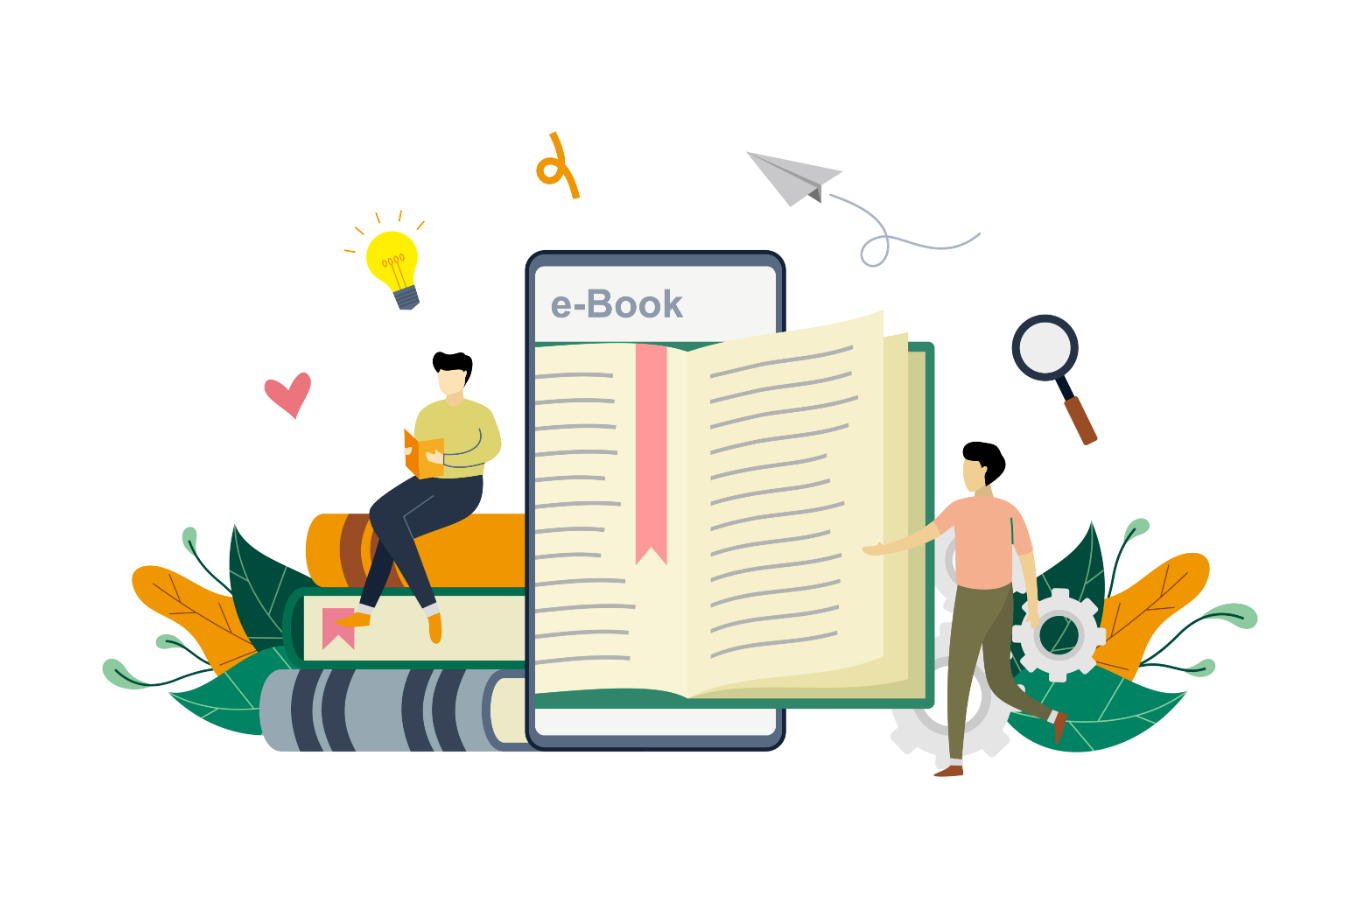
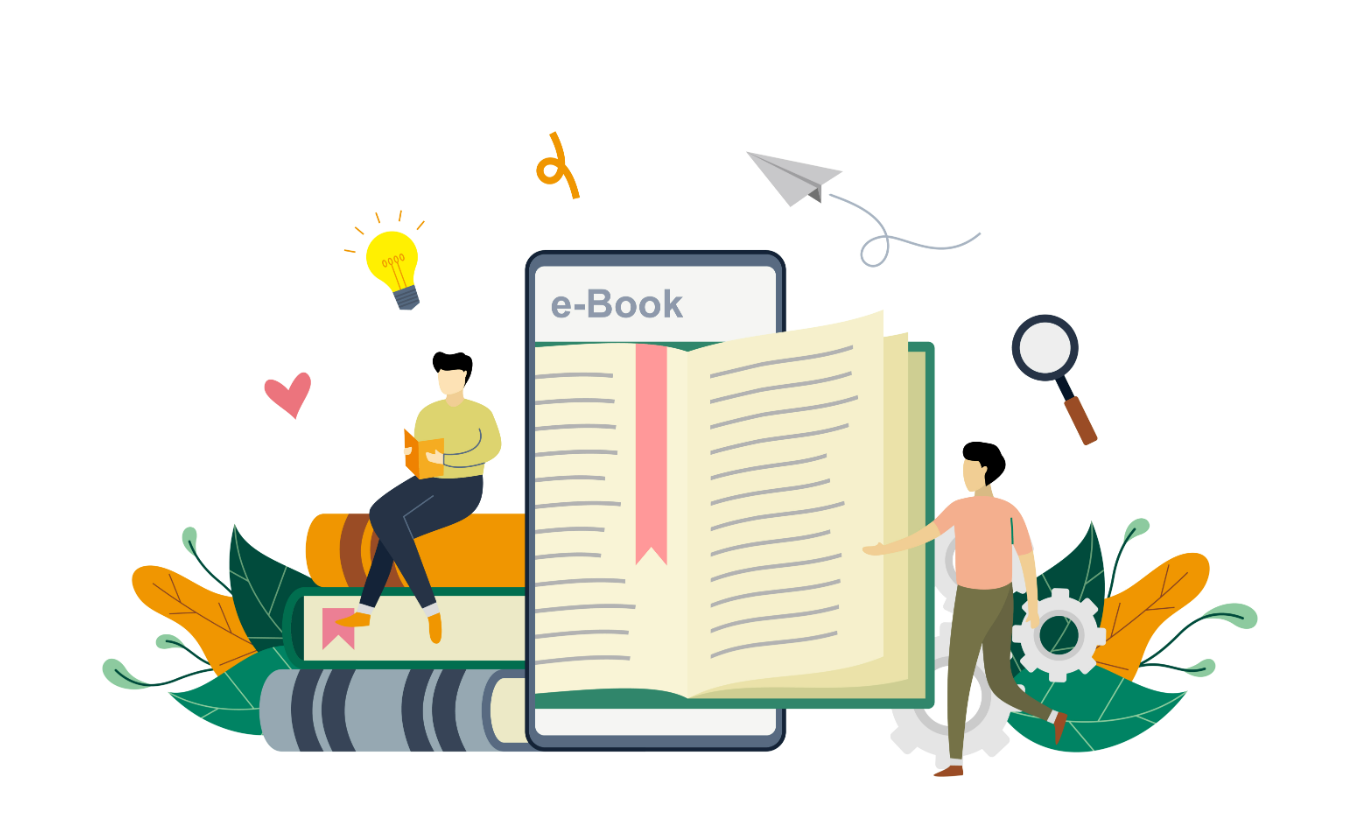
searchbar included

diff --git a/client/src/Components/Navbar.jsx b/client/src/Components/Navbar.jsx
@@ -6,8 +6,11 @@ import { Menu, X, ChevronDown } from "lucide-react";
 function Navbar()  {
   const [open, setOpen] = useState(false);
 
+  const [Search, seSearch] = useState()
+
+
   return (
-    <nav className="w-full bg-[#f5f5f5] border-b border-gray-200">
+    <nav className="w-full">
       {/* Desktop + Mobile Top */}
       <div className="flex items-center justify-between px-6 md:px-10 py-1">
         
@@ -25,22 +28,30 @@ function Navbar()  {
           {/* Logo */}
           <img className='h-15' src={logo} alt="" />
 
+          <div className='pt-4 text-sm w-96'> 
+            <input 
+          className='placeholder:pl-1 bg-gray-200 rounded-2xl p-1.5 outline-none w-80'
+          placeholder='Search books'
+          type="search" />
+          
+          </div>
+
           {/* Desktop Links */}
           <ul className="hidden md:flex items-center gap-10 ml-10 font-semibold text-[16px]">
             <li className="flex items-center gap-1 cursor-pointer hover:text-orange-800">
-              Explore <ChevronDown size={16} />
+              Home
             </li>
 
             <li className="flex items-center gap-1 cursor-pointer hover:text-orange-800">
-              Hire Talent <ChevronDown size={18} />
+              About <ChevronDown size={16} />
             </li>
 
             <li className="flex items-center gap-1 cursor-pointer hover:text-orange-800">
-              Get Hired <ChevronDown size={18} />
+              Contact <ChevronDown size={18} />
             </li>
 
             <li className="flex items-center gap-1 cursor-pointer hover:text-orange-800">
-              Community <ChevronDown size={18} />
+              Shop <ChevronDown size={18} />
             </li>
           </ul>
         </div>
@@ -81,24 +92,21 @@ function Navbar()  {
         {/* Mobile Links */}
         <div className="flex flex-col gap-10 px-7 py-10 text-md font-semibold">
           <div className="flex items-center gap-2">
-            Explore <ChevronDown size={22} />
+            Home
           </div>
 
           <div className="flex items-center gap-2">
-            Hire Talent <ChevronDown size={22} />
+            About <ChevronDown size={18} />
           </div>
 
           <div className="flex items-center gap-2">
-            Get Hired <ChevronDown size={22} />
+            Contact <ChevronDown size={18} />
           </div>
 
           <div className="flex items-center gap-2">
-            Community <ChevronDown size={22} />
+            Shop <ChevronDown size={18} />
           </div>
 
-          <button className="text-pink-500 text-left font-bold">
-            Start Project Brief
-          </button>
         </div>
       </div>
     </nav>

diff --git a/client/src/Pages/Welcome/Welcome.jsx b/client/src/Pages/Welcome/Welcome.jsx
@@ -9,12 +9,15 @@ function Welcome() {
       <div className='grid grid-cols-1 md:grid-cols-2 items-center min-h-screen'>
 
         <div className='flex items-center justify-center '>
-          <img className='ease-in-out duration-1000 hover:scale-110' src={bgimg} alt="" />
+          <img className='ease-in-out duration-1000 hover:scale-105' src={bgimg} alt="" />
         </div>
 
         <div className='flex flex-col items-center p-4 px-17 gap-7'>
-
-          <h1 className='text-4xl font-bold'>CloudStory</h1>
+          <img 
+          src={logo}
+           alt="logo"
+           className=' h-25 overflow-hidden pt-2.5' />
+          {/* <h1 className='text-4xl font-bold'>CloudStory</h1> */}
 
           <p>Escape into a world of imagination, knowledge, and inspiration with <span className='text-orange-500 font-bold'>CloudStory</span> - your personal digital library crafted for readers who love discovering stories anytime, anywhere, From timeless classics to modern favourites, <span className='text-orange-500 font-bold'>CloudStory</span> makes reading simple, immersive, and beautifully organized</p>
 